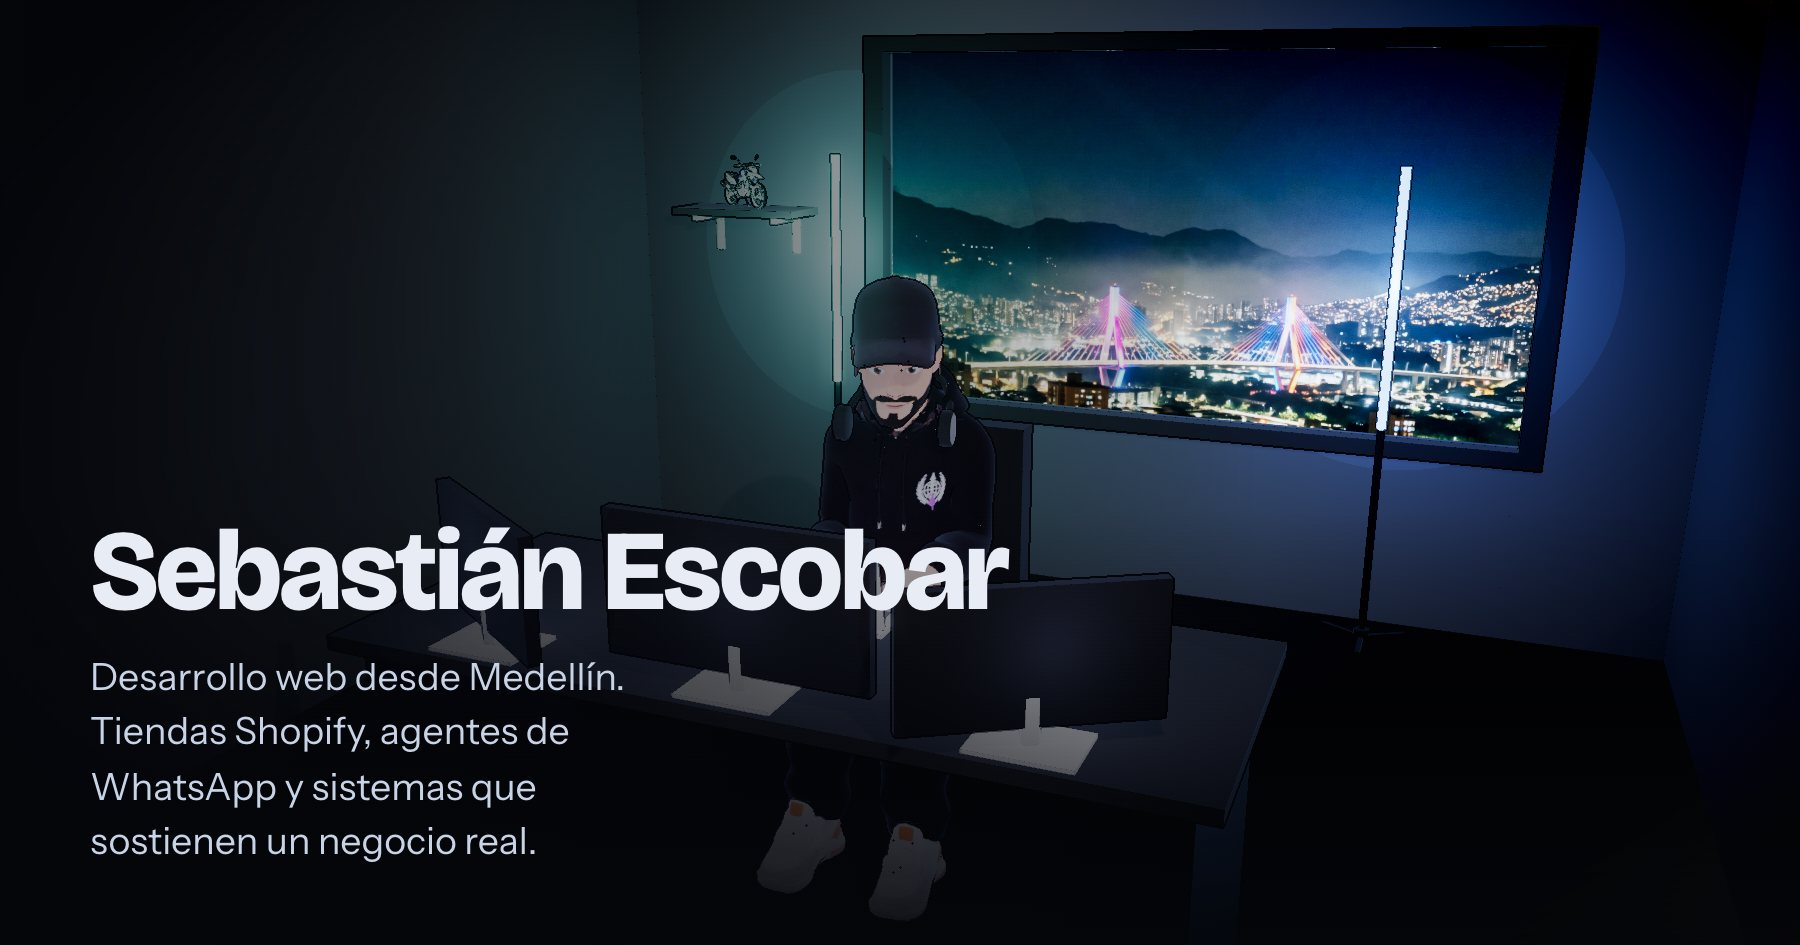
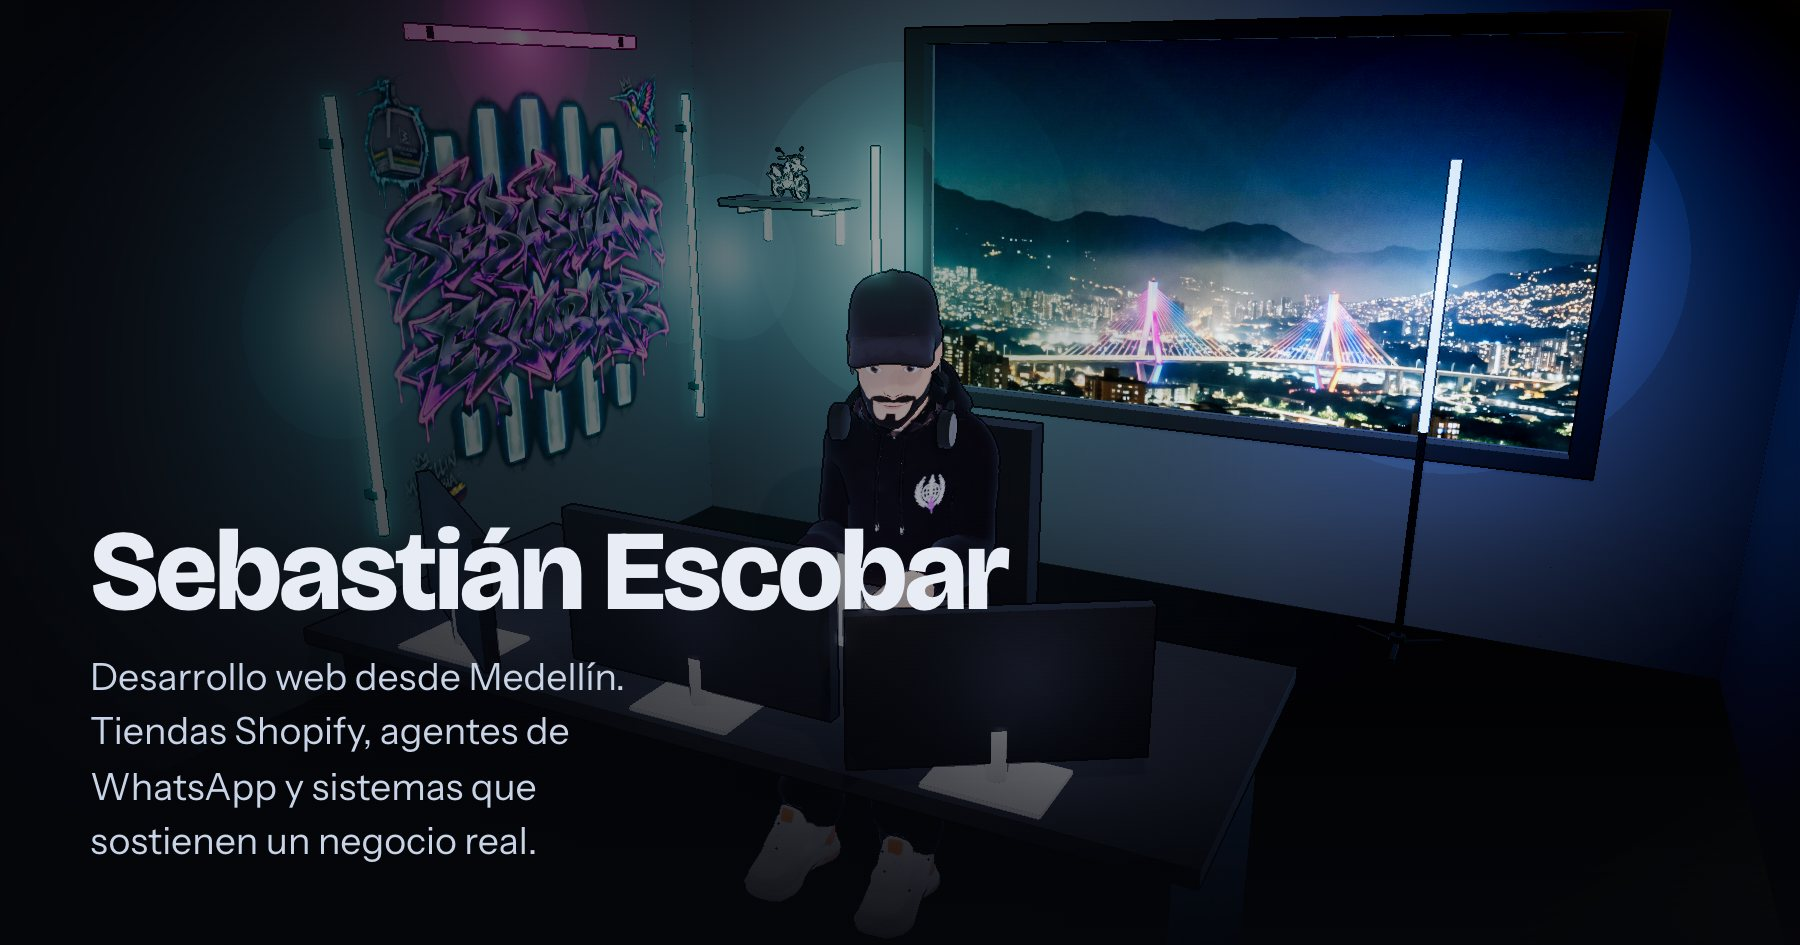
feat(landing): el nombre grafiteado en la pared del cuarto, con paneles de neón reales
- lib/graffiti.js: calcomanía wildstyle "SEBASTIÁN ESCOBAR" (Higgsfield, img/graffiti.webp)
  pegada a la pared lateral +X junto a la ventana. Tres texturas calculadas en canvas al
  cargar: albedo, emisivo solo en el neón pintado (alimenta el bloom) y alpha que hace
  transparente el muro de la imagen para que la pintura quede sobre la pared real
- dos tubos cian y un panel magenta físicos con luz propia, respiran y parpadean
- scene.js: enganche tras applyToon; ?graffiti=0, ?gwall=side|back, ?gsize ?gglow ?glit
- camera-path.js: encuadre vertical del hero en diagonal desde la esquina delantera
  izquierda, para que el grafiti entre entero junto al personaje a 375 px
- poster.jpg y og.jpg regenerados con el grafiti

diff --git a/export/lib/graffiti.js b/export/lib/graffiti.js
@@ -1,0 +1,182 @@
+// Grafiti del nombre pintado en la pared del cuarto, con paneles de neon REALES delante.
+//
+// La pieza (img/graffiti.webp, wildstyle "SEBASTIAN ESCOBAR" generado en Higgsfield, sesion 12)
+// va como calcomania: un plano pegado a la pared con la imagen de albedo y, ademas, una mascara
+// emisiva calculada aqui mismo a partir de la propia imagen (solo los pixeles saturados y
+// claros: los tubos rosa del contorno y los paneles cian pintados). Asi el neon PINTADO cruza el
+// umbral del bloom (2.5 en lineal, ver postfx.js) y brilla como las barras RGB, mientras el
+// cromo de las letras y el muro se quedan como pintura mate.
+//
+// Los paneles de neon fisicos (dos tubos cian verticales y un panel magenta arriba) son
+// geometria emisiva propia con una puntual cada uno: proyectan luz de color sobre la pared, el
+// suelo y el personaje, que es lo que hace que la pieza pertenezca al cuarto y no parezca un
+// poster pegado.
+//
+// No toca el GLB ni Blender: todo vive en el visor. Se apaga con ?graffiti=0 y se mueve de pared
+// con ?gwall=side|back (ver WALLS). Coordenadas glTF: (x, y, z) = Blender (x, z, -y).
+import * as THREE from 'three';
+
+// Donde vive la pieza. `right` es hacia donde apunta la DERECHA de la imagen en el mundo y
+// `normal` sale de la pared hacia el cuarto. La pared lateral +X queda a la IZQUIERDA de la
+// camara del hero (la camara mira hacia +Z) y es el muro vacio grande junto a la ventana.
+export const WALLS = {
+  side: { center: [2.045, 1.18, 0.42], size: 1.6, right: [0, 0, 1], normal: [-1, 0, 0] },
+  // franja de la pared trasera a la derecha de la ventana, debajo de la repisa de la moto
+  back: { center: [1.475, 0.76, 1.445], size: 1.0, right: [-1, 0, 0], normal: [0, 0, -1] },
+};
+
+const smooth = (a, b, x) => { const t = Math.max(0, Math.min(1, (x - a) / (b - a))); return t * t * (3 - 2 * t); };
+
+// Mascara emisiva: conserva el color solo donde la pintura es neon (saturada y clara). El cromo
+// (gris) y el muro (oscuro) salen negros. Se calcula a 1024 para que tarde ~30 ms.
+function glowFromImage(img, size = 1024) {
+  const c = document.createElement('canvas'); c.width = c.height = size;
+  const g = c.getContext('2d', { willReadFrequently: true });
+  g.drawImage(img, 0, 0, size, size);
+  const id = g.getImageData(0, 0, size, size), d = id.data;
+  for (let i = 0; i < d.length; i += 4) {
+    const r = d[i] / 255, gg = d[i + 1] / 255, b = d[i + 2] / 255;
+    const mx = Math.max(r, gg, b), mn = Math.min(r, gg, b);
+    const sat = mx > 0 ? (mx - mn) / mx : 0;
+    const w = smooth(0.35, 0.70, sat) * smooth(0.62, 0.92, mx);
+    d[i] = r * w * 255; d[i + 1] = gg * w * 255; d[i + 2] = b * w * 255; d[i + 3] = 255;
+  }
+  g.putImageData(id, 0, 0);
+  const t = new THREE.CanvasTexture(c); t.colorSpace = THREE.SRGBColorSpace; return t;
+}
+
+// Mascara de opacidad: la PINTURA queda opaca y el muro oscuro que trae la imagen se vuelve
+// transparente, asi las letras se ven sobre la pared real del cuarto (con su luz y sus bandas
+// de cel) en vez de sobre un rectangulo mas oscuro que delata el plano. Por que en dos pasos:
+// las lineas negras del contorno y los bloques 3D oscuros son tan oscuros como el muro, y con
+// un umbral de luminancia a secas se hacian agujeros; la mascara desenfocada (radio ~1 % del
+// lado) los tapa porque siempre estan pegados a pintura clara. Un borde difuminado remata por
+// si algun resto de textura del muro llega a la orilla.
+function paintAlpha(img, size = 1024, feather = 0.10) {
+  const a = document.createElement('canvas'); a.width = a.height = size;
+  const g = a.getContext('2d', { willReadFrequently: true });
+  g.drawImage(img, 0, 0, size, size);
+  const id = g.getImageData(0, 0, size, size), d = id.data;
+  for (let i = 0; i < d.length; i += 4) {
+    const r = d[i] / 255, gg = d[i + 1] / 255, b = d[i + 2] / 255;
+    const lum = 0.2126 * r + 0.7152 * gg + 0.0722 * b, sat = Math.max(r, gg, b) - Math.min(r, gg, b);
+    const m = Math.max(smooth(0.16, 0.30, lum), smooth(0.18, 0.35, sat));
+    d[i] = d[i + 1] = d[i + 2] = m * 255; d[i + 3] = 255;
+  }
+  g.putImageData(id, 0, 0);
+  const c = document.createElement('canvas'); c.width = c.height = size;
+  const h = c.getContext('2d', { willReadFrequently: true });
+  h.filter = `blur(${Math.round(size * 0.012)}px)`; h.drawImage(a, 0, 0); h.filter = 'none';
+  const id2 = h.getImageData(0, 0, size, size), e = id2.data;
+  for (let y = 0; y < size; y++) for (let x = 0; x < size; x++) {
+    const i = (y * size + x) * 4;
+    const u = Math.abs((x + 0.5) / size * 2 - 1), v = Math.abs((y + 0.5) / size * 2 - 1);
+    const edge = smooth(1, 1 - feather, Math.max(u, v));
+    const m = Math.max(d[i] / 255, smooth(0.22, 0.55, e[i] / 255)) * edge;
+    e[i] = e[i + 1] = e[i + 2] = m * 255; e[i + 3] = 255;
+  }
+  h.putImageData(id2, 0, 0);
+  return new THREE.CanvasTexture(c);
+}
+
+/**
+ * @param scene  escena de three
+ * @param opts   base   prefijo de img/ (por omision './')
+ *               ver    sufijo anti-cache ('' o '?v=...')
+ *               wall   'side' | 'back' (clave de WALLS)
+ *               size   lado del plano en metros (por omision el de la pared)
+ *               glow   intensidad emisiva de la pintura neon (3.2)
+ *               light  multiplicador de las puntuales de los paneles (1)
+ *               maxAnisotropy  para que las letras no se emborronen en escorzo
+ * @returns { group, lights, wall, update(dt, t), ready }
+ */
+export function addGraffiti(scene, opts = {}) {
+  const base = opts.base ?? './', ver = opts.ver ?? '';
+  const wallName = WALLS[opts.wall] ? opts.wall : 'side';
+  const W = WALLS[wallName];
+  const S = opts.size ?? W.size, GLOW = opts.glow ?? 3.0, LIT = opts.light ?? 1;
+  const C = new THREE.Vector3(...W.center), R = new THREE.Vector3(...W.right), N = new THREE.Vector3(...W.normal), U = new THREE.Vector3(0, 1, 0);
+  const at = (a, b, c) => C.clone().addScaledVector(R, a).addScaledVector(U, b).addScaledVector(N, c);
+  const group = new THREE.Group(); group.name = 'graffiti';
+  const lights = [];
+  // orientacion comun: +Z local = normal de la pared, +X local = derecha de la imagen
+  const basis = new THREE.Matrix4().makeBasis(R, U, N);
+  const quat = new THREE.Quaternion().setFromRotationMatrix(basis);
+
+  // ---- la pintura
+  const mat = new THREE.MeshStandardMaterial({
+    color: 0xffffff, roughness: 0.95, metalness: 0,
+    emissive: 0xffffff, emissiveIntensity: GLOW,
+    transparent: true, opacity: 0,   // invisible hasta que llegue la imagen y su mascara
+    polygonOffset: true, polygonOffsetFactor: -2, polygonOffsetUnits: -2,   // pegado a la pared sin z-fighting
+  });
+  mat.emissiveMap = null;   // hasta que cargue la imagen: sin mapa, emissive blanco x GLOW quemaria el plano
+  mat.emissiveIntensity = 0;
+  const decal = new THREE.Mesh(new THREE.PlaneGeometry(S, S), mat);
+  decal.name = 'graffiti_decal';
+  decal.position.copy(at(0, 0, 0.006)); decal.quaternion.copy(quat);
+  decal.castShadow = false; decal.receiveShadow = true;
+  group.add(decal);
+
+  const api = { group, lights, wall: wallName, ready: false, update: null };
+  new THREE.TextureLoader().load(base + 'img/graffiti.webp' + ver, (tex) => {
+    tex.colorSpace = THREE.SRGBColorSpace;
+    if (opts.maxAnisotropy) tex.anisotropy = opts.maxAnisotropy;
+    mat.map = tex;
+    mat.alphaMap = paintAlpha(tex.image);
+    mat.opacity = 1;
+    mat.emissiveMap = glowFromImage(tex.image);
+    if (opts.maxAnisotropy) mat.emissiveMap.anisotropy = opts.maxAnisotropy;
+    mat.emissiveIntensity = GLOW;
+    mat.needsUpdate = true;
+    api.ready = true;
+  }, undefined, (e) => console.error('graffiti.webp: ' + (e.message || e)));
+
+  // ---- paneles de neon fisicos. Mismo esquema que las barras RGB del GLB: material emisivo
+  // > 2.5 en lineal para alimentar el bloom, mas una puntual del mismo color.
+  const neon = (color) => new THREE.MeshStandardMaterial({ color: 0x000000, roughness: 0.4, emissive: color, emissiveIntensity: 4 });
+  const bracket = new THREE.MeshStandardMaterial({ color: 0x15161a, roughness: 0.6, metalness: 0.3 });
+  const tubes = [];
+  const gap = 0.10, off = 0.045;   // separacion del borde de la pieza / distancia a la pared
+  const tubeLen = S * 0.88, tubeR = 0.017;
+  for (const side of [-1, 1]) {
+    const t = new THREE.Mesh(new THREE.CylinderGeometry(tubeR, tubeR, tubeLen, 14), neon(0x36f0ff));
+    t.name = 'graffiti_neon_' + (side < 0 ? 'L' : 'R');
+    t.position.copy(at(side * (S / 2 + gap), 0, off)); t.quaternion.copy(quat);
+    t.castShadow = false; t.receiveShadow = false;
+    group.add(t); tubes.push(t);
+    for (const dy of [-0.4, 0.4]) {   // soportes: dos cajitas contra la pared
+      const b = new THREE.Mesh(new THREE.BoxGeometry(0.04, 0.03, off + 0.01), bracket);
+      b.position.copy(at(side * (S / 2 + gap), dy * tubeLen, (off + 0.01) / 2)); b.quaternion.copy(quat);
+      b.castShadow = false; group.add(b);
+    }
+    const l = new THREE.PointLight(0x36f0ff, 0.6 * LIT, 3.5, 2);
+    l.position.copy(at(side * (S / 2 + gap), 0, off + 0.08)); group.add(l); lights.push(l);
+  }
+  // panel magenta horizontal sobre la pieza: una lamina, no un tubo, para que se lea "panel"
+  const panelLen = S * 0.72;
+  const panel = new THREE.Mesh(new THREE.BoxGeometry(panelLen, 0.05, 0.018), neon(0xff3fbf));
+  panel.name = 'graffiti_neon_top';
+  panel.position.copy(at(0, S / 2 + gap, off)); panel.quaternion.copy(quat);
+  panel.castShadow = false; panel.receiveShadow = false;
+  group.add(panel); tubes.push(panel);
+  for (const dx of [-0.42, 0.42]) {
+    const b = new THREE.Mesh(new THREE.BoxGeometry(0.03, 0.04, off + 0.01), bracket);
+    b.position.copy(at(dx * panelLen, S / 2 + gap, (off + 0.01) / 2)); b.quaternion.copy(quat);
+    b.castShadow = false; group.add(b);
+  }
+  const lp = new THREE.PointLight(0xff3fbf, 0.8 * LIT, 3.2, 2);
+  lp.position.copy(at(0, S / 2 + gap, off + 0.08)); group.add(lp); lights.push(lp);
+
+  scene.add(group);
+
+  // Respiracion lenta de los tubos cian y un parpadeo ligero del panel magenta (neon de verdad).
+  api.update = (dt, t) => {
+    const breathe = 3.7 + 0.35 * Math.sin(t * 0.9);
+    tubes[0].material.emissiveIntensity = breathe; tubes[1].material.emissiveIntensity = breathe;
+    const flick = 3.6 + 0.3 * Math.sin(t * 6.3) * Math.sin(t * 11.7) + (Math.random() < 0.004 ? -1.2 : 0);
+    panel.material.emissiveIntensity = flick;
+    lp.intensity = 0.8 * LIT * (flick / 3.6);
+  };
+  return api;
+}

diff --git a/export/lib/scene.js b/export/lib/scene.js
@@ -18,6 +18,7 @@ import { RectAreaLightUniformsLib } from 'three/addons/lights/RectAreaLightUnifo
 import { applyToon, toonLights } from './toon.js';
 import { createComposer } from './postfx.js';
 import { applyWindowGlass } from './glass.js';
+import { addGraffiti } from './graffiti.js';
 
 // Camara de aprobacion de la sesion 2: Blender (-1.3, 3.7, 1.95) mirando a (0, 0.6, 1.0).
 // Lente 35 mm ~ 38 grados verticales.
@@ -155,7 +156,7 @@ export function createAvatarScene(opts = {}) {
   const draco = new DRACOLoader(); draco.setDecoderPath('https://cdn.jsdelivr.net/npm/three@0.170.0/examples/jsm/libs/draco/gltf/');
   const loader = new GLTFLoader(); loader.setDRACOLoader(draco);
 
-  let mixer = null, actions = {}, screens = [], bars = [], character = null, glass = null;
+  let mixer = null, actions = {}, screens = [], bars = [], character = null, glass = null, graffiti = null;
   const clock = new THREE.Clock();
   const mouse = { x: 0, y: 0 };
   const ray = new THREE.Raycaster();
@@ -211,6 +212,16 @@ export function createAvatarScene(opts = {}) {
       bandStrength: num('gband', undefined), fresnelStrength: num('gfres', undefined),
     });
     status.glass = !!glass;
+    // Grafiti del nombre con paneles de neon (lib/graffiti.js). Va fuera de gltf.scene y despues
+    // de applyToon: la calcomania es Standard a proposito (emisivo propio para el bloom).
+    // ?graffiti=0 lo quita; ?gwall=back lo pasa a la pared trasera; ?gglow= ?glit= ?gsize= calibran.
+    graffiti = Q.get('graffiti') === '0' ? null : addGraffiti(scene, {
+      base: BASE_URL, ver: VER, wall: Q.get('gwall') || 'side',
+      size: num('gsize', undefined), glow: num('gglow', undefined), light: num('glit', undefined),
+      maxAnisotropy: renderer.capabilities.getMaxAnisotropy(),
+    });
+    status.graffiti = graffiti ? graffiti.wall : null;
+    if (graffiti) status.lights += graffiti.lights.length;
     saveFollow();
     mixer = new THREE.AnimationMixer(gltf.scene);
     for (const clip of gltf.animations) actions[clip.name] = mixer.clipAction(clip);
@@ -357,6 +368,7 @@ export function createAvatarScene(opts = {}) {
       for (const l of Object.values(screenLights)) l.intensity = 1.6 * LIT.screen * k * k;
     }
     bars.forEach((b, i) => { const h = (t * 0.05 + i * 0.5) % 1; b.material.emissive.setHSL(0.55 + 0.1 * Math.sin(h * Math.PI * 2), 0.9, 0.55); b.material.emissiveIntensity = 4; barLights[i] && barLights[i].color.copy(b.material.emissive); });
+    if (graffiti) graffiti.update(dt, t);
     for (const cb of frameCbs) cb(dt, t);          // la landing mueve aqui la camara
     if (controls) controls.update(); else camera.lookAt(camTarget);
     if (composer) composer.render(dt); else renderer.render(scene, camera);
@@ -369,6 +381,7 @@ export function createAvatarScene(opts = {}) {
     THREE, renderer, scene, camera, controls, composer, status, follow, mouse, actions,
     get character() { return character; },
     get glass() { return glass; },
+    get graffiti() { return graffiti; },
     camTarget,
     vibe, browup, playExclusive, resetCamera, setMouse, setSize, inkFrac,
     onFrame(cb) { frameCbs.push(cb); return () => { const i = frameCbs.indexOf(cb); if (i >= 0) frameCbs.splice(i, 1); }; },

diff --git a/export/lib/camera-path.js b/export/lib/camera-path.js
@@ -15,8 +15,14 @@ export const CAMERA_STATES = {
   // Rama ajuste-velo-camara: posiciones ~0.45 m mas cerca y fov +3 grados para que el personaje
   // ocupe mas cuadro sin invadir la columna de texto (la derecha); stack NO se toca porque su
   // angulo es el unico desde el que se leen los monitores encendidos.
+  // Vertical (sesion 12): la camara se va a la esquina delantera izquierda del cuarto y mira
+  // en diagonal hacia +X, para que el grafiti del nombre (pared +X, lib/graffiti.js) entre
+  // ENTERO a la izquierda y el personaje quede de perfil a la derecha, todo en el 40 % de
+  // arriba, que es lo que deja libre la columna de texto. De frente (encuadre anterior) el
+  // grafiti no entraba en cuadro: con 375 px de ancho el fov horizontal es de ~28 grados.
+  // Elegido con capturas (scratchpad movil_hero.mjs, variantes A-I y H2/H3).
   hero:      { pos: [-1.35, 1.90, -3.25], target: [0.00, 1.00, -0.60], fov: 41,
-               movil: { pos: [-0.90, 1.75, -2.65], target: [0.05, 0.55, -0.55], fov: 52 } },
+               movil: { pos: [-1.75, 1.25, -2.95], target: [1.00, 0.30, 0.20], fov: 58 } },
   // Retrato 3/4: el personaje se va al tercio izquierdo y deja sitio a la columna de texto.
   sobreMi:   { pos: [-0.95, 1.62, -2.15], target: [-0.10, 1.30, -0.35], fov: 34,
                movil: { pos: [-0.80, 1.66, -2.10], target: [-0.05, 0.95, -0.35], fov: 48 } },
